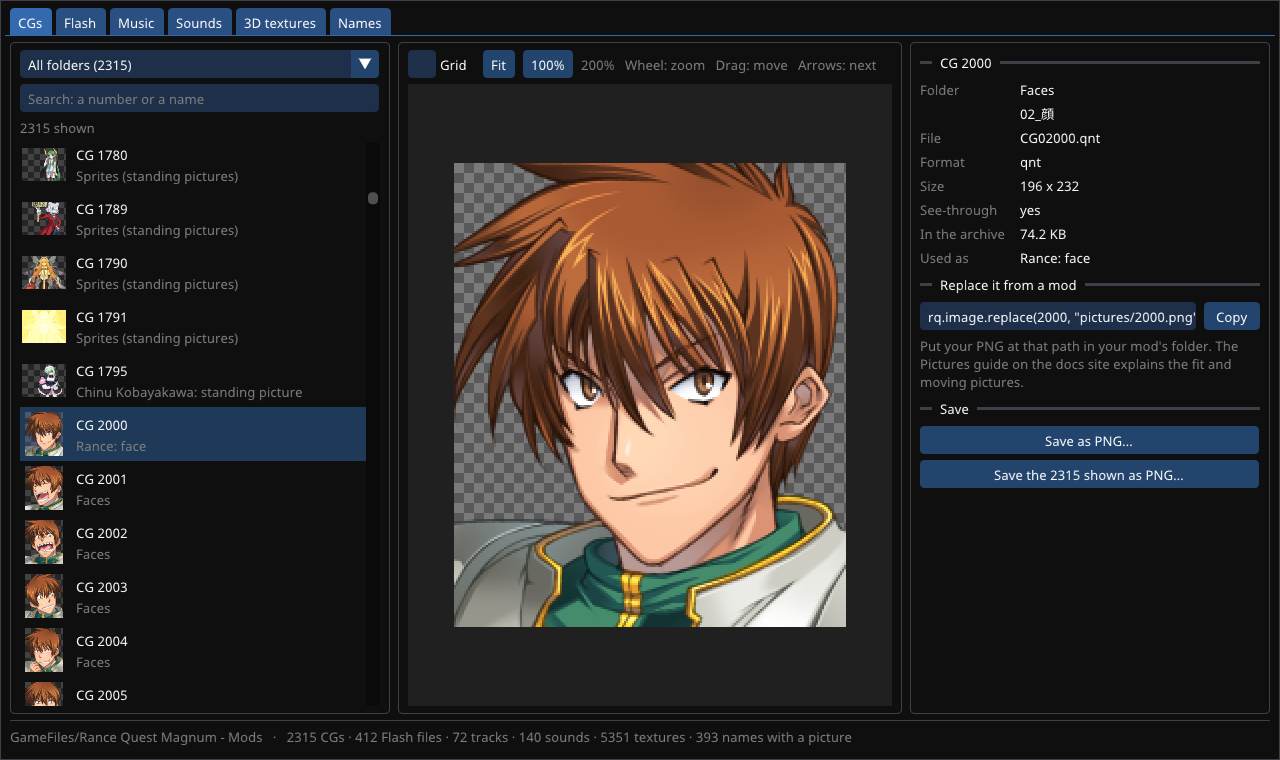
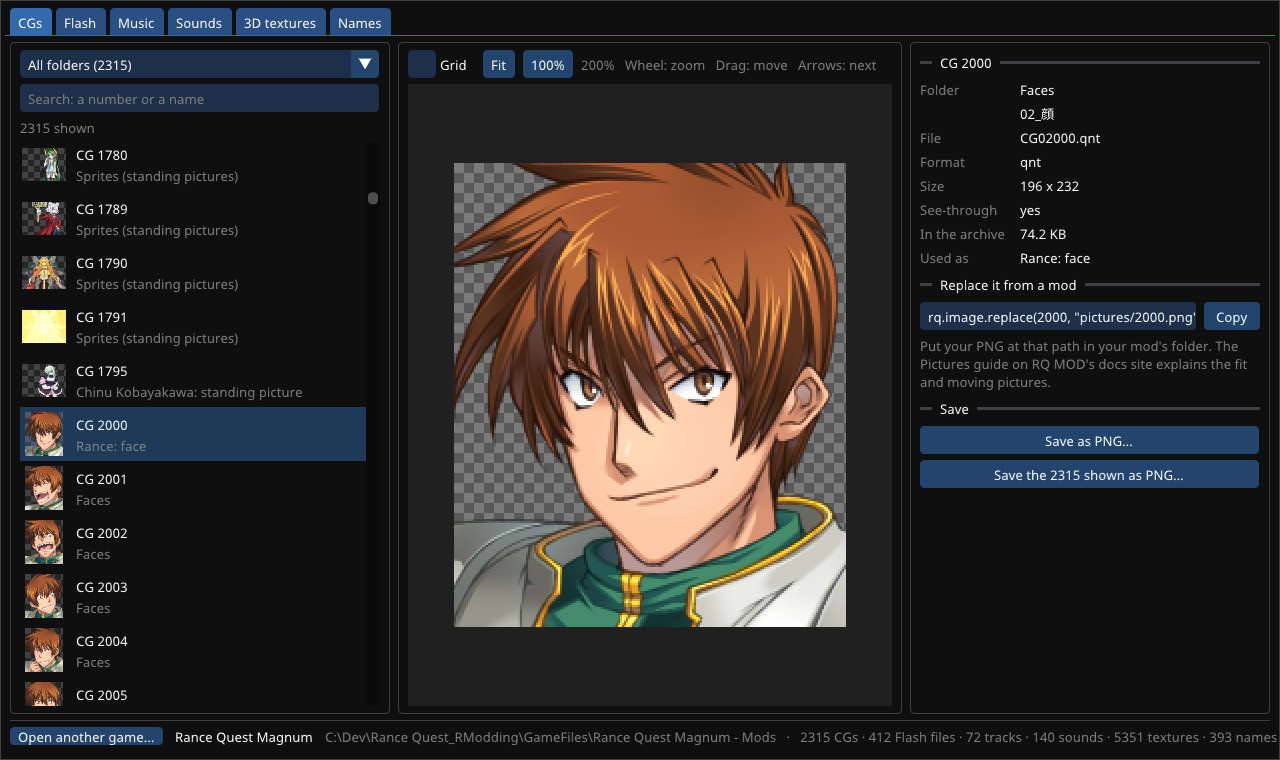
Loader 2.55.1: RQ Browser is now Rance Browser
The file browser guide names Rance Browser (rance-browser.exe,
rance-browser.json), its own repository, --grid, and the other games it opens
(Rance VI tested, the others "not tested"; no Names tab or Lua lines there). Its
three pictures were taken again. ids, music, pictures and the roadmap link it by
its new name. Reference and changelog synced from the engine (a9e32cc).

diff --git a/docs/guide/file-browser.md b/docs/guide/file-browser.md
@@ -1,30 +1,35 @@
 # Looking through the game's files
 
-RQ Browser (`rq-browser.exe`, with loader 2.43.0) is a window over the game's own files: its
-pictures, Flash files, music, sounds and 3D textures, and the names `rq.ids` gives. Find what you
-want to change, read its number, copy the Lua line that replaces or plays it, and save the file to
-look at or draw over.
+Rance Browser (`rance-browser.exe`) is a window over the game's own files: its pictures, Flash
+files, music, sounds and 3D textures, and the names `rq.ids` gives. Find what you want to change,
+read its number, copy the Lua line that replaces or plays it, and save the file to look at or draw
+over.
+
+It came with loader 2.43.0 as RQ Browser (`rq-browser.exe`). Since 2.55.1 it is Rance Browser, a
+program with [a repository of its own](https://github.com/RQ-Modding/rance-browser) that RQ MOD's
+package carries; its version (1.0.0 in loader 2.55.1) shows in its title bar.
 
 ![The CGs tab: Rance's face, CG 2000, with its details and the Lua line that replaces it](/browser/cgs.png)
 
 ## Opening it
 
-`rq-browser.exe` is in the game's `xsystem4` folder, beside `xsystem4.exe`. Double-click it: it
+`rance-browser.exe` is in the game's `xsystem4` folder, beside `xsystem4.exe`. Double-click it: it
 opens the game folder above it. Run from somewhere else, it asks for the game folder once and
-remembers it in `rq-browser.json` beside it. To name a folder:
+remembers it in `rance-browser.json` beside it (an `rq-browser.json` left by RQ Browser is read when
+there is no other). To name a folder:
 
 ```
-rq-browser.exe --game "D:\Games\Rance Quest Magnum"
+rance-browser.exe --game "D:\Games\Rance Quest Magnum"
 ```
 
 It only reads the game's archives and never changes the game's files, so the game may run at the
-same time. The one file it writes there is its own `rq-browser.json`, beside it.
+same time. The one file it writes there is its own `rance-browser.json`, beside it.
 
 On a screen that Windows scales (125 %, 150 %), the text and the panels grow with the scale and stay
 sharp. For another size, start it with `--scale`, from 1 to 4:
 
 ```
-rq-browser.exe --scale 1.25
+rance-browser.exe --scale 1.25
 ```
 
 ## The tabs
@@ -85,13 +90,21 @@ you made.
 ## From a script
 
 ```
-rq-browser.exe --check [--out report.json]
-rq-browser.exe --shot cgs shot.png [--select 2000]
-rq-browser.exe --help
+rance-browser.exe --check [--out report.json]
+rance-browser.exe --shot cgs shot.png [--select 2000] [--grid]
+rance-browser.exe --help
 ```
 
 `--check` opens every archive, decodes some of each kind, reads every track's loop and every
 sound, and prints a report in JSON; it ends with 0 when all went well. `--shot` saves one tab
 (`cgs`, `flash`, `music`, `sounds`, `textures` or `names`) as a PNG, with `--select` choosing the
-number, row or kind shown, `--size WxH` the picture's size and `--scale` the layout's (1 unless
-given).
+number, row or kind shown, `--grid` the pictures' grid, `--size WxH` the picture's size and `--scale`
+the layout's (1 unless given).
+
+## Other games
+
+Rance Browser also opens other AliceSoft games on the same engine (System 4), for players and wiki
+writers: **Open another game...** at the bottom picks one. Rance VI - Collapse of Zeth is tested;
+the others open marked "not tested". There the Names tab and the Lua lines are gone, since RQ MOD's
+calls work in Rance Quest Magnum only, and other tabs appear when a game has those files (Rance VI's
+dungeon textures, for one). Its README lists the games and what each shows.

diff --git a/docs/changelog.md b/docs/changelog.md
@@ -5,6 +5,14 @@
 Each version is the loader version mods see as `rq.version` and declare as `loader` in `mod.json`.
 A patch version fixes or adjusts behavior, a minor version adds calls or fields, a major version removes, renames or changes the meaning of a call.
 
+## 2.55.1
+
+RQ Browser becomes Rance Browser 1.0.0, a program in its own repository (`notes/plans/plan-browser-repo.md` in the workspace), from the testers' request that it open other Rance games for the wiki, Rance VI first. No `rq.*` call changes; the version is raised for the program that ships with this loader, as in 2.43.0 and 2.52.1. From now on a new browser version in the package is named in the loader version that carries it, and a browser change alone raises no loader version.
+- The package's `xsystem4\rq-browser.exe` is now `xsystem4\rance-browser.exe`, **Rance Browser 1.0.0** (its title says "RQ MOD 2.55.1" beside its version). It reads an `rq-browser.json` beside it when it has no `rance-browser.json`, so the game folder it remembered stays.
+- For Rance Quest Magnum nothing else changes: the same tabs, counts, names and Lua lines. The CG details show the format and size in the grid too, and a CG picked from the Names tab is brought into view in the grid.
+- The browser opens other System 4 games: Rance VI - Collapse of Zeth (tested; its CGs in labelled groups, its battle effects with their masks, music with its loops, sounds, the `.alk` pictures and the dungeon textures) and others marked "not tested". The Names tab and the Lua lines show for Rance Quest Magnum only.
+- The source left this repository: `tools/rq-browser` and `third_party/cimgui` are now `subprojects/rance-browser`, a git submodule of `RQ-Modding/rance-browser` (GPL-2.0-or-later, with Dear ImGui and cimgui). `meson.build` builds it as a subproject with the loader's own `data/ids` and `dist/lua/rq.lua` (meson options `rq_ids_dir` and `rq_lua`), so the build still fails when a Lua line names a call `rq.lua` lacks. The browser shares the engine's libsys4. Clone with `--recurse-submodules`, or run `git submodule update --init --recursive` in a clone made before.
+
 ## 2.55.0
 
 The calls Dynamic Immature needs (`notes/plans/plan-dynamic-immature.md` in the workspace), from a tester's request to remove the Immature trait: a Special item that gives its wearer Immature (skill 373) when equipped, one that takes its penalty away, each refused with its reason. In Lua over `rq.ain` (`src/lua/item.lua`, `skills.lua`), but for `only` in C (`src/modloader_scene.c`).

diff --git a/docs/roadmap.md b/docs/roadmap.md
@@ -64,11 +64,12 @@ When a mod asks for it, or at low priority.
 - **Animations from your own art.** A tool that builds the game's animation files (`.aff`) from a PNG
   sequence and checks a Flash file against what the engine can play. Unpacking the game's own came in
   2.25.0: `rqmod-ctl flashdump` saves a file's pictures.
-- **A browser for the game's files.** Came with 2.43.0: [RQ Browser](guide/file-browser.md) shows the
-  game's CGs, Flash files, music, sounds, 3D textures and the names of `rq.ids` with their pictures,
-  gives the Lua line that replaces or plays each, and saves them. Later: a Flash file's motion
-  played, the pictures and music the installed mods put in place, the game's text, and Escape to
-  close a dropdown.
+- **A browser for the game's files.** Came with 2.43.0: [Rance Browser](guide/file-browser.md) (RQ
+  Browser until 2.55.1, now in its own repository) shows the game's CGs, Flash files, music, sounds,
+  3D textures and the names of `rq.ids` with their pictures, gives the Lua line that replaces or
+  plays each, and saves them. Since 2.55.1 it also opens Rance VI and other System 4 games for the
+  wiki. Later: a Flash file's motion played, the pictures and music the installed mods put in place,
+  the game's text, and Escape to close a dropdown.
 - **3D models in Blender (ongoing).** Worked on over time, each step with a guide
   for people new to 3D: the game's models and animations shown in the browser and exported to glTF for
   Blender; a mod's own textures on the game's models; a mod's own models and animations, read from the

diff --git a/docs/guide/pictures.md b/docs/guide/pictures.md
@@ -31,7 +31,7 @@ rq.chara.edit(52, { face = "faces/kaoru.png" })  -- 52 is Kaoru (rq.ids.chara)
 
 `rq.image.info(no)` gives a number's size and whether a mod's picture is on it. Read the size of a
 game picture there before you draw one for it. To find a picture's number, look through them all
-in [RQ Browser](./file-browser) (`rq-browser.exe` in the game's `xsystem4` folder): it shows each
+in [Rance Browser](./file-browser) (`rance-browser.exe` in the game's `xsystem4` folder): it shows each
 CG with its number, size and what uses it, gives the `rq.image.replace` line and saves PNGs. With
 the game running, `rqmod-ctl cgdump FROM TO DIR` saves a range of them too.
 
@@ -70,7 +70,7 @@ inside them. `rq.image.flash_bitmap(file, id, path)` puts your picture in place 
 pictures. It is fitted to the same size, so the file moves, fades and blends it as it did the old
 one: a new face in a cut-in slides in as the old one did.
 
-**1. Find the pictures.** [RQ Browser](./file-browser)'s Flash tab shows every Flash file's pictures
+**1. Find the pictures.** [Rance Browser](./file-browser)'s Flash tab shows every Flash file's pictures
 with their ids and sizes, and saves them. With the game running, `rqmod-ctl` saves a file's pictures
 with their ids too:
 

diff --git a/docs/guide/ids.md b/docs/guide/ids.md
@@ -114,7 +114,7 @@ number and none of them has the plain key ("Fortune" gives 448; "Attack" gives n
 ## Finding a number
 
 - The [Game data](../data/index.md) tables, or `rq.ids.find` and `rq.ids.find_all`.
-- [RQ Browser](file-browser.md)'s Names tab: every `rq.ids` list with its keys, and each character's
+- [Rance Browser](file-browser.md)'s Names tab: every `rq.ids` list with its keys, and each character's
   face and each item's icon. Its other tabs give the numbers of CGs, music tracks and sounds.
 - `rq.units()` and `rq.items()` list what the save has, and `rq.quests()` every quest, with names.
 - `rq.skill.get(no).name` and `rq.chara.get(iic).name` give a name for a number, also for things a

diff --git a/docs/guide/music.md b/docs/guide/music.md
@@ -24,7 +24,7 @@ rq.music.replace(rq.ids.music.INDOOR_CRAWL_R8, "music/indoor.ogg")
 ```
 
 `rq.ids.music` names the tracks; the Music table under Game data lists them all, with their
-numbers. [RQ Browser](./file-browser) plays each track with its loop and gives its `replace` line.
+numbers. [Rance Browser](./file-browser) plays each track with its loop and gives its `replace` line.
 `name` is what the extras' music room shows for the track.
 
 The file plays from the next time the game starts the track. To hear it at once while you test:

diff --git a/docs/reference/index.md b/docs/reference/index.md
@@ -1,6 +1,6 @@
 # API reference
 
-Loader version 2.55.0.
+Loader version 2.55.1.
 
 ## Namespaces
 
